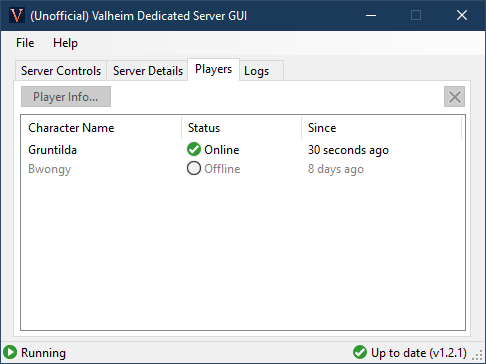
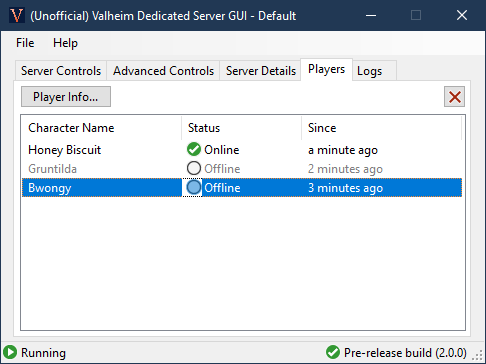
Update docs for v2.0.0

diff --git a/README.md b/README.md
@@ -11,11 +11,11 @@ Need help? You can find support articles in the [Online Manual here](https://git
 <table width="100%" align="center">
   <tr>
     <td><a href="img/Screenshot-ServerControls.png"><img src="img/Screenshot-ServerControls.png"></a></td>
-    <td><a href="img/Screenshot-ServerDetails.png"><img src="img/Screenshot-ServerDetails.png"></a></td>
+    <td><a href="img/Screenshot-AdvancedControls.png"><img src="img/Screenshot-AdvancedControls.png"></a></td>
   </tr>
   <tr>
+    <td><a href="img/Screenshot-ServerDetails.png"><img src="img/Screenshot-ServerDetails.png"></a></td>
     <td><a href="img/Screenshot-Players.png"><img src="img/Screenshot-Players.png"></a></td>
-    <td><a href="img/Screenshot-Logs.png"><img src="img/Screenshot-Logs.png"></a></td>
   </tr>
 </table>
 
@@ -24,7 +24,7 @@ Need help? You can find support articles in the [Online Manual here](https://git
 In order to run ValheimServerGUI, you will need the following:
 
 * **Windows 10 x64-based PC** - Other Windows configurations may or may not work. 🤷♀
-* **.NET 5 Desktop Runtime** - If you don't have it, you should be prompted to install it when you first run this app. Otherwise, you can install the latest release [here](https://dotnet.microsoft.com/download/dotnet/5.0) (under ".NET Desktop Runtime 5.X.X").
+* **.NET 6 Desktop Runtime** - If you don't have it, you should be prompted to install it when you first run this app. Otherwise, you can install the latest release [here](https://dotnet.microsoft.com/download/dotnet/6.0) (under ".NET Desktop Runtime 6.X.X").
 * **Valheim Dedicated Server** - Comes free with your purchase of Valheim. See the installation guide [here](https://github.com/runeberry/ValheimServerGUI/wiki/Installing-Valheim-Dedicated-Server).
 
 ## Features
@@ -38,19 +38,18 @@ In order to run ValheimServerGUI, you will need the following:
 * **Safe shutdowns** - Safely stops the server when you close the app or shut down Windows
 * **Automatic startup** - If enabled, can automatically start up your server when Windows starts
 * **Minimize to tray** - Minimize this app and control your server entirely from the Windows system tray
-
-### Coming soon...
-
-* **Worlds manager** - View, delete, or backup your worlds from within the app
-* **Ban list management** - Manage your servers ban/allow lists from within the app
+* **Multi-server support** - Run multiple servers at once by creating separate server profiles (see [FAQs](https://github.com/runeberry/ValheimServerGUI/wiki/Frequently-Asked-Questions) for details)
+* **Works with mods!** - Tested and working with server-side mods such as [Valheim Plus](https://www.nexusmods.com/valheim/mods/4).
 
 ## Quick guide
 
 1. Launch ValheimServerGUI.exe.
 2. Enter your desired Server Name and Password. You don't need to change the Port in most cases.
 3. Select the world you want to host, or enter a new world name.
-4. If you want your server to appear in the Community Server list within Valheim, check "Community Server". If you leave it unchecked, players will need to "Join by IP" in-game.
-5. Click "Start Server". When the status bar reads "Running", you're ready to play!
+4. Eheck any additional join options you want enabled:
+  * **Community Server** will show your server in the server browser in-game.
+  * **Enable Crossplay** will allow players on any platform to join with an Invite Code
+1. Click "Start Server". When the status bar reads "Running", you're ready to play! You can copy your server's IP address or Invite Code from the Server Details tab to share with friends.
 
 ## FAQs
 
@@ -65,7 +64,7 @@ Interesting in contributing code to ValheimServerGUI? Check out the guidelines a
 Got suggestions, feedback, or want to report a bug? Here's how you can reach me:
 
 * Create a [GitHub issue](https://github.com/runeberry/ValheimServerGUI/issues/new) - Include as many details as you can for bug reports!
-* Tweet me - [@Runeberries](https://twitter.com/Runeberries)
+* Submit a bug report in the app itself (Help > Submit a Bug Report). This will include logs & machine info to help troubleshoot the problem.
 * Send me an email - feedback@runeberry.com
 
 ## Donate
